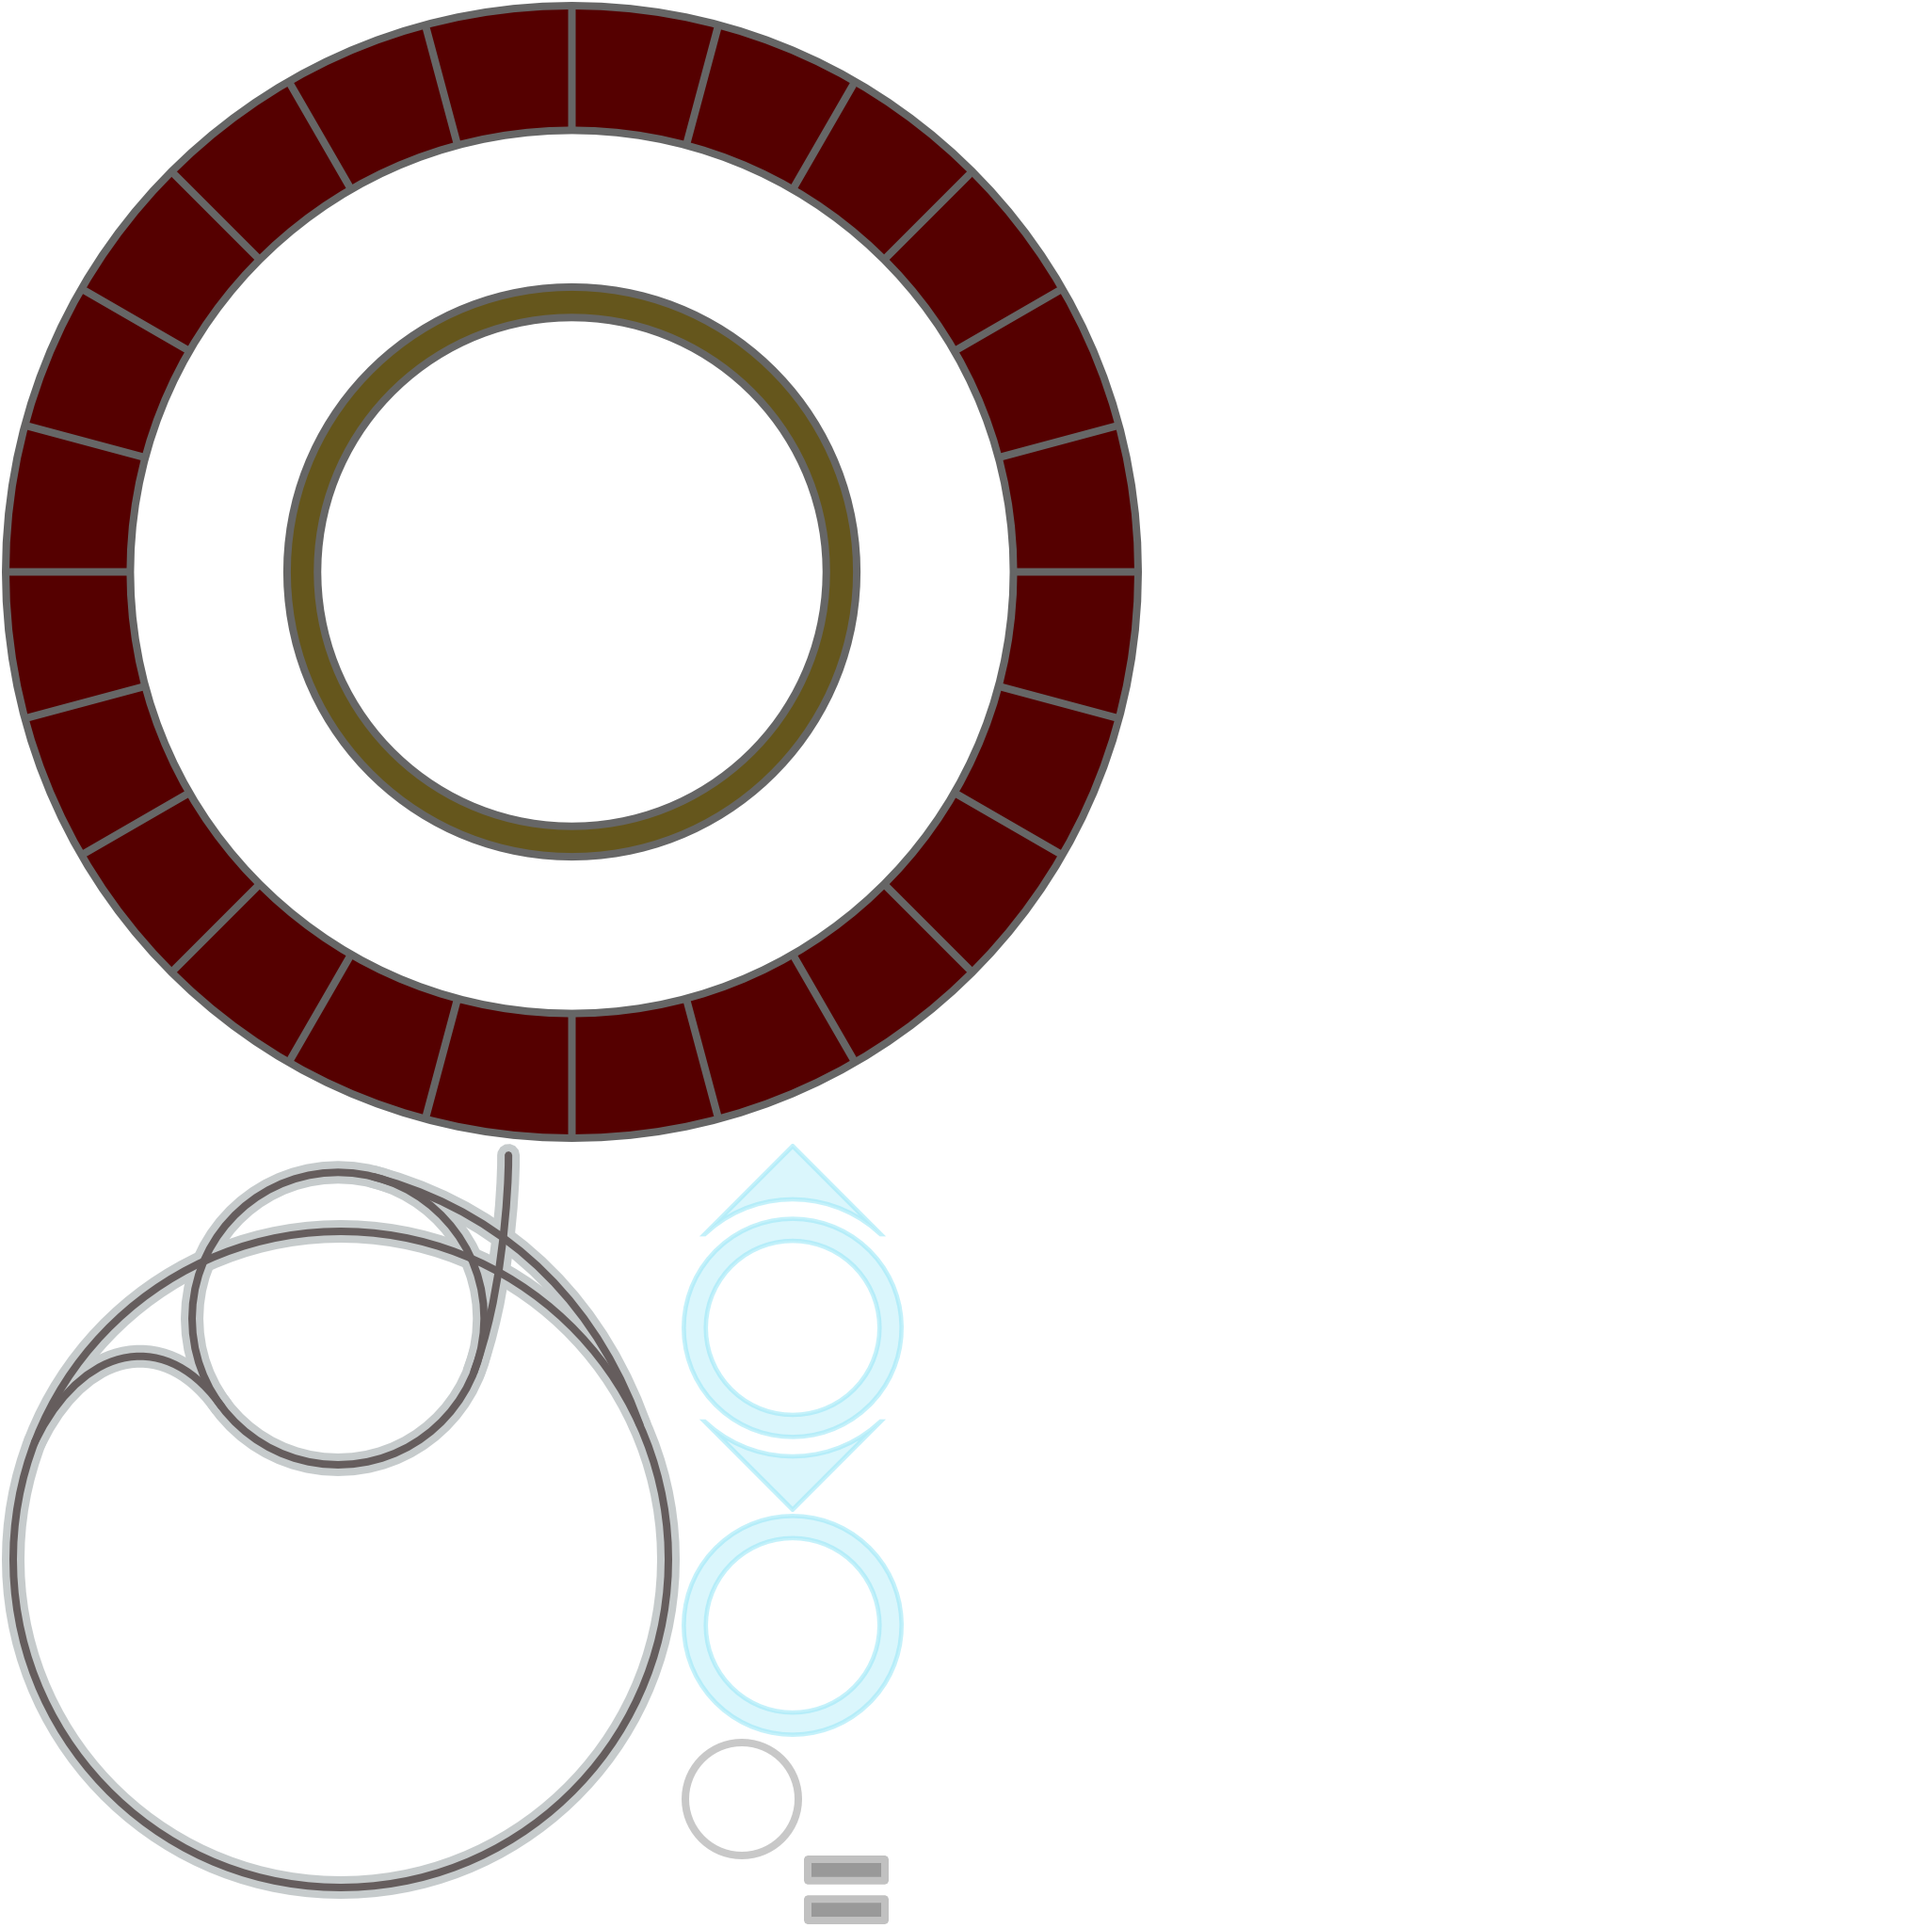
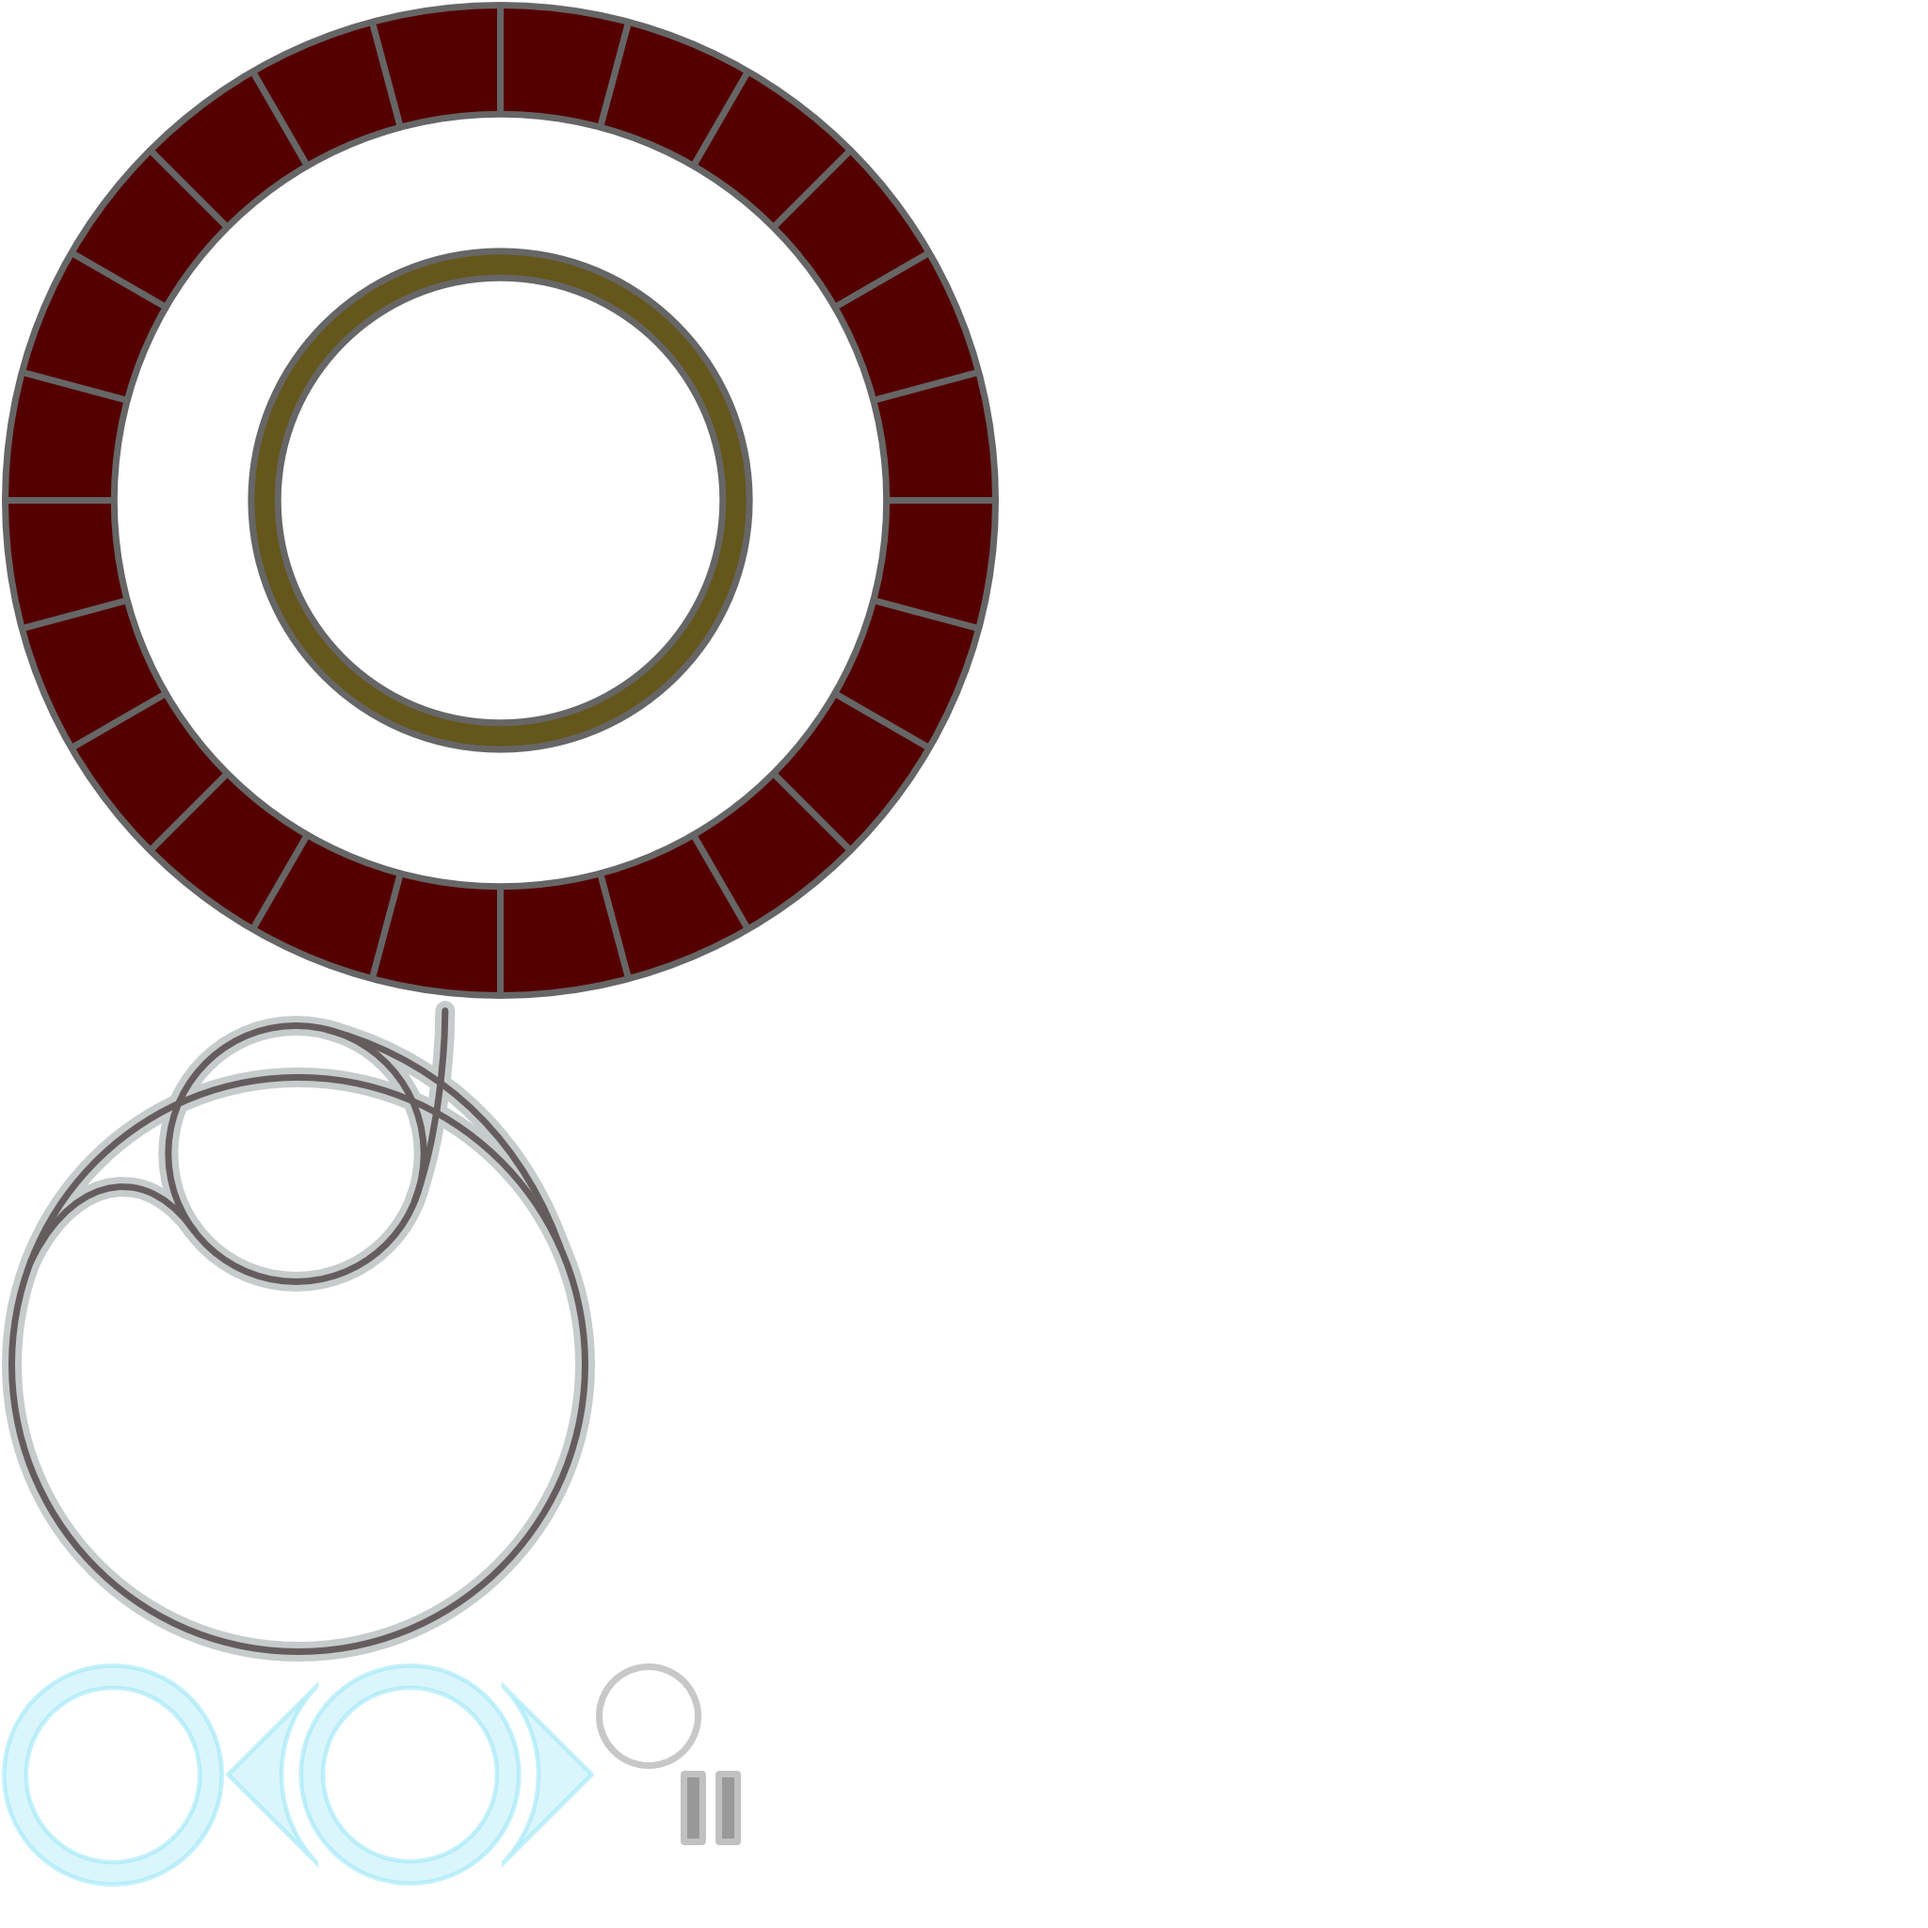
Scaled iPad artwork down.  Removed programmatic scaling.

Changed region(s): [[0.0, 0.0, 0.5938, 1.0]]

diff --git a/CharmQuark/Classes/GameplayLayer.m b/CharmQuark/Classes/GameplayLayer.m
@@ -31,7 +31,7 @@ static CGPoint skewVector;
 -(Particle *) readyNextParticle;
 -(void)resetGame;
 -(void) resume;
--(void) scoreParticles;
+-(BOOL) scoreParticles;
 -(void) step: (ccTime) dt;
 
 @end
@@ -74,8 +74,9 @@ static void syncSpriteToBody(cpBody *body, GameplayLayer* self) {
 		[particle setPosition: cpvmult(body->p, scaleFactor)];
         //        [particle setPosition: worldToView(body->p)];
         
-        if ([particle isLive] && 
-            (cpvlength(cpBodyGetPos(body)) >= kFailRadius - kParticleRadius)) {
+        if ([particle isLive] 
+            && (cpvlength(cpBodyGetPos(body)) >= kFailRadius - kParticleRadius)
+            && ![self scoreParticles]) {
             [self end:particle];
         }
 	}
@@ -235,9 +236,9 @@ void collisionSeparate(cpArbiter *arb, cpSpace *space, GameplayLayer *self)
     Particle *particle = nil;
     ParticleColors color = rand() % colors; //9;
     particle = [Particle particleWithColor:color]; 
-    if( UI_USER_INTERFACE_IDIOM() == UIUserInterfaceIdiomPad ) {
-        particle.scale = scaleFactor; //TODO: Remove this.
-    }
+//    if( UI_USER_INTERFACE_IDIOM() == UIUserInterfaceIdiomPad ) {
+//        particle.scale = scaleFactor; //TODO: Remove this.
+//    }
     
     //particle = [Particle particleWithColor:kParticleGreen]; 
     
@@ -383,7 +384,7 @@ void collisionSeparate(cpArbiter *arb, cpSpace *space, GameplayLayer *self)
     [label runAction:seq];
 }
 
--(void) scoreParticles {
+-(BOOL) scoreParticles {
     NSInteger multiplier = 0;
     NSInteger points = 0;
     
@@ -456,6 +457,11 @@ void collisionSeparate(cpArbiter *arb, cpSpace *space, GameplayLayer *self)
         
         postStepRemoveParticle(space, particle.body, self);  // Don't need to schedule, called from update.
     }
+    
+    if (points) {
+        return YES;
+    }
+    return NO;
 }
 
 -(void) alignParticleToCenter:(Particle *)particle {
@@ -668,7 +674,8 @@ void collisionSeparate(cpArbiter *arb, cpSpace *space, GameplayLayer *self)
     
     // Add the map.
     map = [LHCMap node];
-    map.position = ccp(winSize.width * 0.19, winSize.height * 0.62);
+    map.anchorPoint = ccp(0.02, 0.5);
+    map.position = ccp(0, winSize.height * 0.62);
     //clock.scale = 0.75f;
     [uiBatchNode addChild:map z:kZBackground];
     
@@ -679,9 +686,9 @@ void collisionSeparate(cpArbiter *arb, cpSpace *space, GameplayLayer *self)
     
     // Add the detector.
     detector = [Detector node];
-    if( UI_USER_INTERFACE_IDIOM() == UIUserInterfaceIdiomPad ) {
-        detector.scale = scaleFactor; // TODO: Remove this when you have a better graphic.
-    }
+//    if( UI_USER_INTERFACE_IDIOM() == UIUserInterfaceIdiomPad ) {
+//        detector.scale = scaleFactor; // TODO: Remove this when you have a better graphic.
+//    }
     detector.position = puzzleCenter;
     [uiBatchNode addChild:detector z:kZBackground];
     
